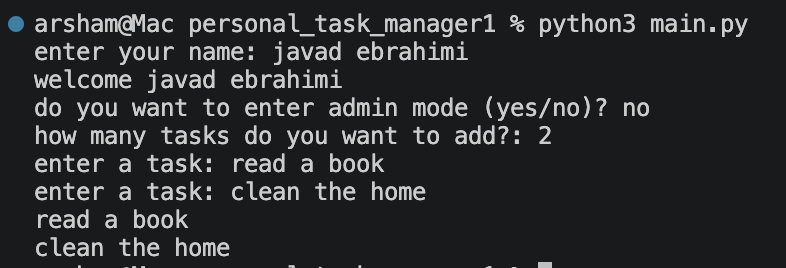
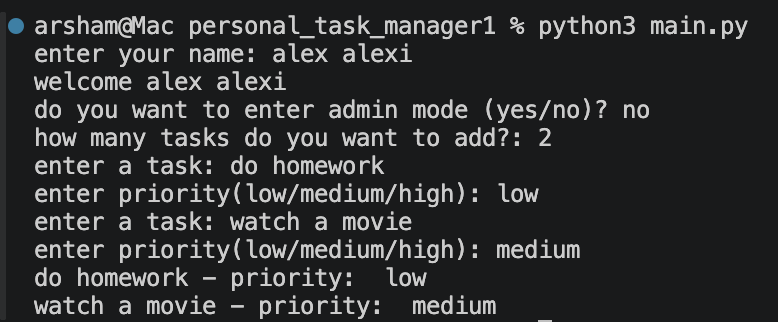
update readme for task priority

diff --git a/README.md b/README.md
@@ -1,13 +1,20 @@
 # Personal Task Manager
 ![Static Badge](https://img.shields.io/badge/python-blue?logo=python&logoColor=white)
 
-A simple task manager built with python
+A simple task manager built with Python
 
 ## Features
 - add multiple tasks
 - save tasks
 - load saved tasks
 - admin mode
+- set task priority
+
+## Task priority
+each task can have one of these priority levels:
+- low
+- medium
+- high
 
 ## Requirements
 - Python
@@ -36,7 +43,7 @@ Install the required packages:
 ```bash
 python -m pip install -r requirements.txt
 ```
-## Environment setup
+## Environment Setup
 create a `.env` file in the project folder
 
 Use `.env.example` as a template
@@ -49,7 +56,7 @@ admin_pass=your_password_here
 
 replace `your_password_here` with your own admin password
 
-## run the program
+## Run the Program
 run the main file:
 ```bash
 python main.py
